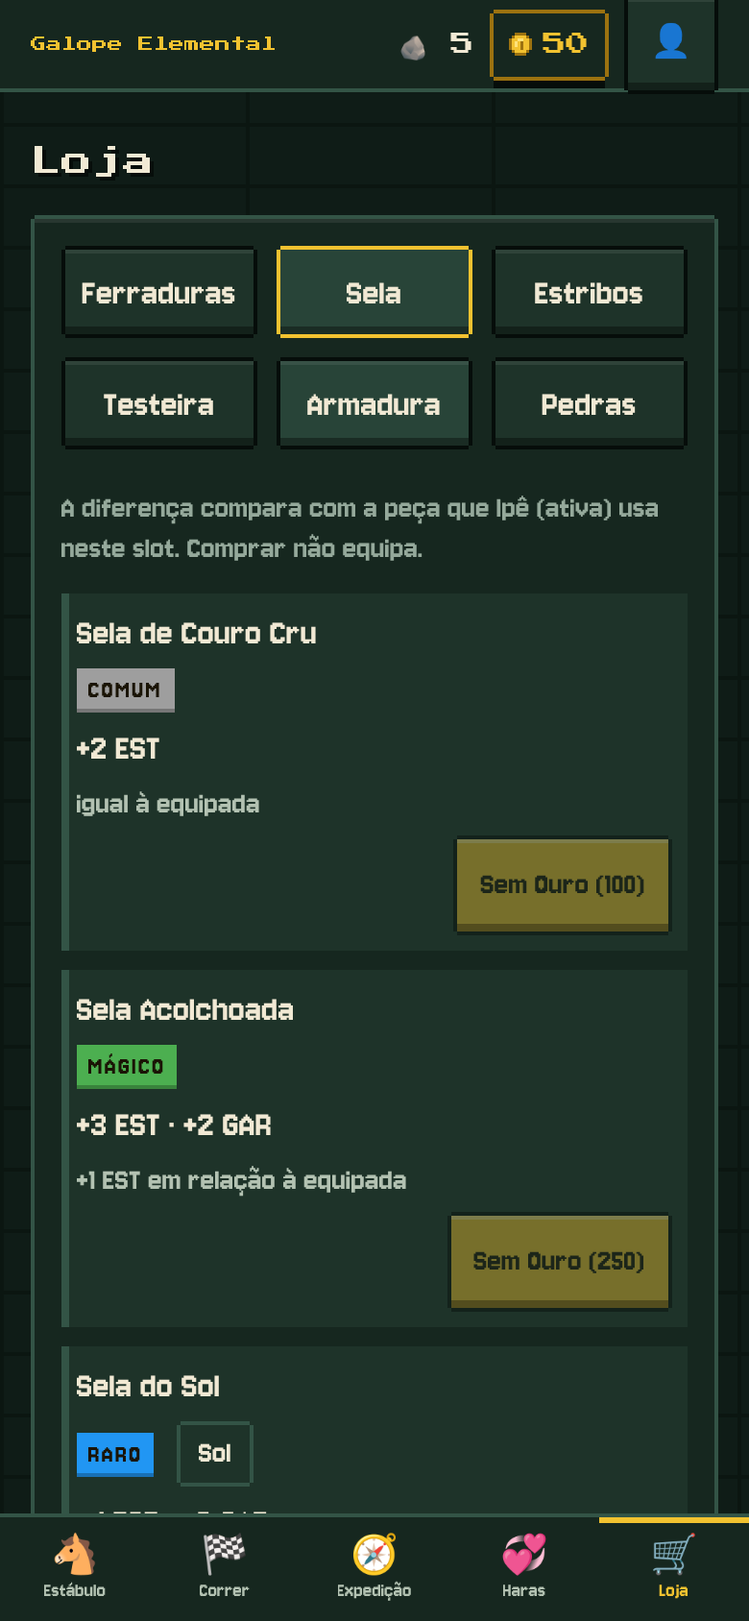
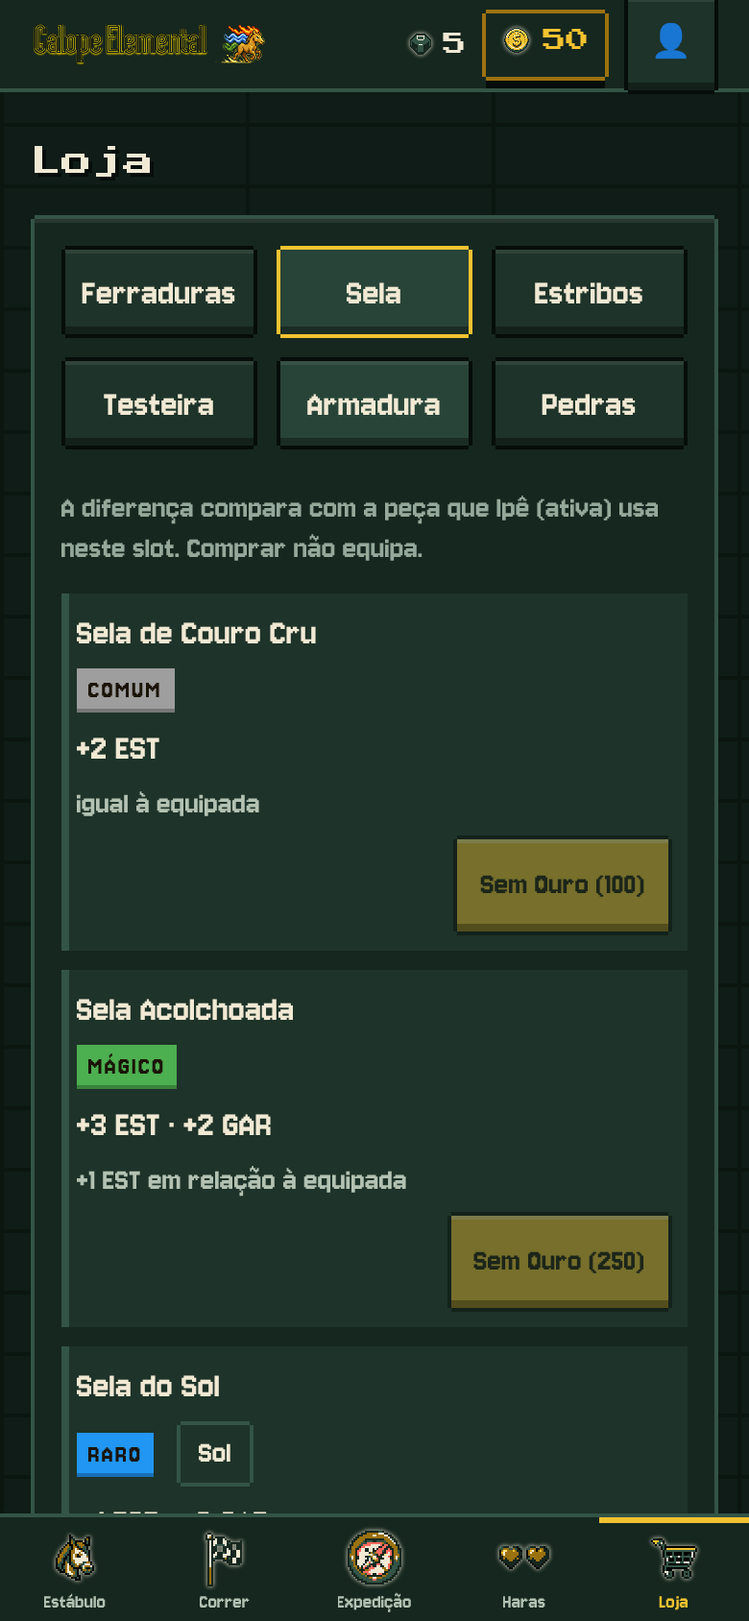
Documenta os visuais (moldes, ícones, marca), capturas e memória
Claude-Session: https://claude.ai/code/session_01MGExzKELAJ58uyj4wakVgJ

diff --git a/docs/memoria/assets.md b/docs/memoria/assets.md
@@ -6,38 +6,38 @@ jogador consome (arte, som, texto, página da loja); ferramentas de código não
 
 | Data | Arquivo(s) | Ferramenta | Prompt / parâmetros | Custo | Em uso no jogo? |
 |---|---|---|---|---|---|
-| 2026-11-05 | `prototype/assets/pixellab/{brasa,mare,ipe}.png` | PixelLab API v2 `create-image-pixflux` | Prompts e seeds (101/202/303) em `prototype/tools/pixellab-generate.mjs`; 64×64, vista lateral, contorno preto, sem fundo | 3 gerações da cota do plano (US$ 0 cobrado) | Não — só em `prototype/comparativo.html` |
+| 2026-11-05 | `prototype/assets/pixellab/{brasa,mare,ipe}.png` | PixelLab API v2 `create-image-pixflux` | Prompts e seeds (101/202/303) em `prototype/tools/pixellab-generate.mjs` (script removido em 2026-11-08, substituído por `pixellab-moldes.mjs`); 64×64, vista lateral, contorno preto, sem fundo | 3 gerações da cota do plano (US$ 0 cobrado) | Não — só em `prototype/comparativo.html` |
 | 2026-11-05 | `prototype/assets/pixellab/*-gallop-00..08.png` | PixelLab API v2 `animate-with-text-v3` | Ação: "galloping at full racing speed, legs extending and gathering, mane and tail flowing back"; 8 quadros pedidos (9 recebidos); mesmas seeds | 3 gerações da cota (~US$ 0,03 cada se pago) | Não — só em `prototype/comparativo.html` |
-| 2026-11-08 | `prototype/assets/marca/logo.png` (640×125, fundo transparente por chave de cor; original 1024×1024) | Canva `create-design` (design DAHaWgeoGqw) | Logotipo pixel art "Galope Elemental" com cavalo de crina de fogo, água e folhas; fundo #0b1910 removido e redimensionado | Plano Canva pago (sem custo avulso) | Não (até a Task 4) |
-| 2026-11-08 | `prototype/assets/marca/capa.png` e `docs/capa.png` (1024×500, faixa central do 1280×720) | Canva `create-design` "YouTube Thumbnail" (design DAHaWnkxNO4) | Capa noturna com 3 cavalos de Fogo, Água e Grama em pista; título "Galope Elemental" (corrigido à mão no editor: a IA escreveu "Calope") e "Corra, cruze e aposte". Rascunho descartado: DAHaWr7G4io (1024×256, título cortado) | Plano Canva pago (sem custo avulso) | Não — página da loja e README |
-| 2026-11-08 | `prototype/assets/pixellab/molde-chamas-retrato.png` | PixelLab API v2 `create-image-pixflux` | retrato 64×64: cavalo parado sem jóquei nem sela, crina "mane and tail shaped like flickering flames", cores de papel pedidas por texto (pelo #ff0000, crina #00ff00 …; sem paleta forçada); papéis por família de cor + Otsu do estilo; seed 1101 (imagem crua de rodada anterior, reaproveitada) | 1 geração da cota | Não (até a Task 3) |
-| 2026-11-08 | `prototype/assets/pixellab/molde-chamas-parado.png` | PixelLab API v2 `create-image-pixflux` | parado 64×64: cavalo parado com jóquei (seda e capacete #ffff00, pele #ffc0cb, sela e manta #808080), crina "mane and tail shaped like flickering flames", cores de papel pedidas por texto (pelo #ff0000, crina #00ff00 …; sem paleta forçada); papéis por família de cor + Otsu do estilo; seed 1101 (imagem crua de rodada anterior, reaproveitada) | 1 geração da cota | Não (até a Task 3) |
-| 2026-11-08 | `prototype/assets/pixellab/molde-chamas-galope-0..8.png` e `prototype/assets/pixellab/molde-chamas.json` | PixelLab API v2 `create-image-pixflux` + `animate-with-text-v3` | montado (meio da passada, com jóquei, crina "mane and tail shaped like flickering flames"; seed 1111 (imagem crua de rodada anterior, reaproveitada) (repetição; rejeitada: 1101)) animado com "galloping at full racing speed in a seamless loop, legs extending and gathering, mane and tail flowing back", frame_count 8 (9 quadros recebidos), drift_threshold 0; galope seed 1101 (imagem crua de rodada anterior, reaproveitada) | 2 gerações da cota | Não (até a Task 3) |
-| 2026-11-08 | `prototype/assets/pixellab/molde-ondas-retrato.png` | PixelLab API v2 `create-image-pixflux` | retrato 64×64: cavalo parado sem jóquei nem sela, crina "mane and tail shaped like flowing water waves", cores de papel pedidas por texto (pelo #ff0000, crina #00ff00 …; sem paleta forçada); papéis por família de cor + Otsu do estilo; seed 1201 (imagem crua de rodada anterior, reaproveitada) | 1 geração da cota | Não (até a Task 3) |
-| 2026-11-08 | `prototype/assets/pixellab/molde-ondas-parado.png` | PixelLab API v2 `create-image-pixflux` | parado 64×64: cavalo parado com jóquei (seda e capacete #ffff00, pele #ffc0cb, sela e manta #808080), crina "mane and tail shaped like flowing water waves", cores de papel pedidas por texto (pelo #ff0000, crina #00ff00 …; sem paleta forçada); papéis por família de cor + Otsu do estilo; seed 1201 (imagem crua de rodada anterior, reaproveitada) | 1 geração da cota | Não (até a Task 3) |
-| 2026-11-08 | `prototype/assets/pixellab/molde-ondas-galope-0..8.png` e `prototype/assets/pixellab/molde-ondas.json` | PixelLab API v2 `create-image-pixflux` + `animate-with-text-v3` | montado (meio da passada, com jóquei, crina "mane and tail shaped like flowing water waves"; seed 1221 (imagem crua de rodada anterior, reaproveitada) (repetição; rejeitadas: 1201, 1211)) animado com "galloping at full racing speed in a seamless loop, legs extending and gathering, mane and tail flowing back", frame_count 8 (9 quadros recebidos), drift_threshold 0; galope seed 1201 (imagem crua de rodada anterior, reaproveitada) | 3 gerações da cota | Não (até a Task 3) |
-| 2026-11-08 | `prototype/assets/pixellab/molde-folhas-retrato.png` | PixelLab API v2 `create-image-pixflux` | retrato 64×64: cavalo parado sem jóquei nem sela, crina "mane and tail made of leaves", cores de papel pedidas por texto (pelo #ff0000, crina #00ff00 …; sem paleta forçada); papéis por família de cor + Otsu do estilo; seed 1301 (imagem crua de rodada anterior, reaproveitada) | 1 geração da cota | Não (até a Task 3) |
-| 2026-11-08 | `prototype/assets/pixellab/molde-folhas-parado.png` | PixelLab API v2 `create-image-pixflux` | parado 64×64: cavalo parado com jóquei (seda e capacete #ffff00, pele #ffc0cb, sela e manta #808080), crina "mane and tail made of leaves", cores de papel pedidas por texto (pelo #ff0000, crina #00ff00 …; sem paleta forçada); papéis por família de cor + Otsu do estilo; seed 1301 (imagem crua de rodada anterior, reaproveitada) | 1 geração da cota | Não (até a Task 3) |
-| 2026-11-08 | `prototype/assets/pixellab/molde-folhas-galope-0..8.png` e `prototype/assets/pixellab/molde-folhas.json` | PixelLab API v2 `create-image-pixflux` + `animate-with-text-v3` | montado (meio da passada, com jóquei, crina "mane and tail made of leaves"; seed 1311 (imagem crua de rodada anterior, reaproveitada) (repetição; rejeitada: 1301)) animado com "galloping at full racing speed in a seamless loop, legs extending and gathering, mane and tail flowing back", frame_count 8 (9 quadros recebidos), drift_threshold 0; galope seed 1301 (imagem crua de rodada anterior, reaproveitada) | 3 gerações da cota | Não (até a Task 3) |
-| 2026-11-08 | `prototype/assets/pixellab/molde-lisa-retrato.png` | PixelLab API v2 `create-image-pixflux` | retrato 64×64: cavalo parado sem jóquei nem sela, crina "long straight flowing mane and tail", cores de papel pedidas por texto (pelo #ff0000, crina #00ff00 …; sem paleta forçada); papéis por família de cor + Otsu do estilo; seed 1411 (imagem crua de rodada anterior, reaproveitada) (repetição; rejeitada: 1401) | 1 geração da cota | Não (até a Task 3) |
-| 2026-11-08 | `prototype/assets/pixellab/molde-lisa-parado.png` | PixelLab API v2 `create-image-pixflux` | parado 64×64: cavalo parado com jóquei (seda e capacete #ffff00, pele #ffc0cb, sela e manta #808080), crina "long straight flowing mane and tail", cores de papel pedidas por texto (pelo #ff0000, crina #00ff00 …; sem paleta forçada); papéis por família de cor + Otsu do estilo; seed 1421 (imagem crua de rodada anterior, reaproveitada) (repetição; rejeitadas: 1401, 1411) | 1 geração da cota | Não (até a Task 3) |
-| 2026-11-08 | `prototype/assets/pixellab/molde-lisa-galope-0..8.png` e `prototype/assets/pixellab/molde-lisa.json` | PixelLab API v2 `create-image-pixflux` + `animate-with-text-v3` | montado (meio da passada, com jóquei, crina "long straight flowing mane and tail", reforço "bright green (#00ff00) long straight mane and tail clearly visible, jockey in yellow silks and yellow helmet"; seed 1471 (imagem crua de rodada anterior, reaproveitada) (repetição; rejeitadas: 1451, 1461)) animado com "galloping at full racing speed in a seamless loop, legs extending and gathering, mane and tail flowing back", frame_count 8 (9 quadros recebidos), drift_threshold 0; galope seed 1401 (imagem crua de rodada anterior, reaproveitada) | 4 gerações da cota | Não (até a Task 3) |
-| 2026-11-08 | `prototype/assets/icons/aba-estabulo.png` | PixelLab API v2 `create-image-pixflux` | ícone 32×32 "horse head icon, pixel art game ui icon, centered, simple, readable at small size", contorno preto, color_image = #000000 #f2c230 #ffe27a #9c7210 #f1e9d4 #16271f #335446; seed 2101 | 1 geração da cota | Não (até a Task 4) |
-| 2026-11-08 | `prototype/assets/icons/aba-correr.png` | PixelLab API v2 `create-image-pixflux` | ícone 32×32 "checkered racing flag icon, pixel art game ui icon, centered, simple, readable at small size", contorno preto, color_image = #000000 #f2c230 #ffe27a #9c7210 #f1e9d4 #16271f #335446; seed 2102 | 1 geração da cota | Não (até a Task 4) |
-| 2026-11-08 | `prototype/assets/icons/aba-expedicao.png` | PixelLab API v2 `create-image-pixflux` | ícone 32×32 "round navigation compass, top view, red and white needle pointing up, cardinal marks, pixel art game ui icon, centered, simple, readable at small size", contorno preto, color_image = #000000 #f2c230 #ffe27a #9c7210 #f1e9d4 #16271f #335446 #ff6b5e; seed 2123 | 1 geração da cota | Não (até a Task 4) |
-| 2026-11-08 | `prototype/assets/icons/aba-haras.png` | PixelLab API v2 `create-image-pixflux` | ícone 32×32 "two hearts icon, pixel art game ui icon, centered, simple, readable at small size", contorno preto, color_image = #000000 #f2c230 #ffe27a #9c7210 #f1e9d4 #16271f #335446; seed 2104 | 1 geração da cota | Não (até a Task 4) |
-| 2026-11-08 | `prototype/assets/icons/aba-loja.png` | PixelLab API v2 `create-image-pixflux` | ícone 32×32 "shopping cart icon, pixel art game ui icon, centered, simple, readable at small size", contorno preto, color_image = #000000 #f2c230 #ffe27a #9c7210 #f1e9d4 #16271f #335446; seed 2105 | 1 geração da cota | Não (até a Task 4) |
-| 2026-11-08 | `prototype/assets/icons/slot-ferraduras.png` | PixelLab API v2 `create-image-pixflux` | ícone 32×32 "horseshoe icon, pixel art game ui icon, centered, simple, readable at small size", contorno preto, color_image = #000000 #f2c230 #ffe27a #9c7210 #f1e9d4 #16271f #335446; seed 2106 | 1 geração da cota | Não (até a Task 4) |
-| 2026-11-08 | `prototype/assets/icons/slot-sela.png` | PixelLab API v2 `create-image-pixflux` | ícone 32×32 "horse saddle icon, pixel art game ui icon, centered, simple, readable at small size", contorno preto, color_image = #000000 #f2c230 #ffe27a #9c7210 #f1e9d4 #16271f #335446; seed 2107 | 1 geração da cota | Não (até a Task 4) |
-| 2026-11-08 | `prototype/assets/icons/slot-estribos.png` | PixelLab API v2 `create-image-pixflux` | ícone 32×32 "single stirrup iron: D-shaped metal loop with a flat footplate at the bottom, hanging from a short leather strap, pixel art game ui icon, centered, simple, readable at small size", contorno preto, color_image = #000000 #f2c230 #ffe27a #9c7210 #f1e9d4 #16271f #335446; seed 2128 | 1 geração da cota | Não (até a Task 4) |
-| 2026-11-08 | `prototype/assets/icons/slot-testeira.png` | PixelLab API v2 `create-image-pixflux` | ícone 32×32 "horse head armor chamfron icon, pixel art game ui icon, centered, simple, readable at small size", contorno preto, color_image = #000000 #f2c230 #ffe27a #9c7210 #f1e9d4 #16271f #335446; seed 2109 | 1 geração da cota | Não (até a Task 4) |
-| 2026-11-08 | `prototype/assets/icons/slot-armadura.png` | PixelLab API v2 `create-image-pixflux` | ícone 32×32 "horse barding armor icon, pixel art game ui icon, centered, simple, readable at small size", contorno preto, color_image = #000000 #f2c230 #ffe27a #9c7210 #f1e9d4 #16271f #335446; seed 2110 | 1 geração da cota | Não (até a Task 4) |
-| 2026-11-08 | `prototype/assets/icons/moeda-ouro.png` | PixelLab API v2 `create-image-pixflux` | ícone 32×32 "gold coin icon, pixel art game ui icon, centered, simple, readable at small size", contorno preto, color_image = #000000 #f2c230 #ffe27a #9c7210 #f1e9d4 #16271f #335446; seed 2111 | 1 geração da cota | Não (até a Task 4) |
-| 2026-11-08 | `prototype/assets/icons/pedra-negra.png` | PixelLab API v2 `create-image-pixflux` | ícone 32×32 "black polished stone gem icon, pixel art game ui icon, centered, simple, readable at small size", contorno preto, color_image = #000000 #f2c230 #ffe27a #9c7210 #f1e9d4 #16271f #335446; seed 2112 | 1 geração da cota | Não (até a Task 4) |
-| 2026-11-08 | `prototype/assets/icons/el-fogo.png` | PixelLab API v2 `create-image-pixflux` | ícone 32×32 "flame icon (#ff8a4c), pixel art game ui icon, centered, simple, readable at small size", contorno preto, color_image = #000000 #f2c230 #ffe27a #9c7210 #f1e9d4 #16271f #335446 #ff8a4c; seed 2113 | 1 geração da cota | Não (até a Task 4) |
-| 2026-11-08 | `prototype/assets/icons/el-agua.png` | PixelLab API v2 `create-image-pixflux` | ícone 32×32 "water drop icon (#62b8ff), pixel art game ui icon, centered, simple, readable at small size", contorno preto, color_image = #000000 #f2c230 #ffe27a #9c7210 #f1e9d4 #16271f #335446 #62b8ff; seed 2114 | 1 geração da cota | Não (até a Task 4) |
-| 2026-11-08 | `prototype/assets/icons/el-grama.png` | PixelLab API v2 `create-image-pixflux` | ícone 32×32 "green leaf icon (#7be07a), pixel art game ui icon, centered, simple, readable at small size", contorno preto, color_image = #000000 #f2c230 #ffe27a #9c7210 #f1e9d4 #16271f #335446 #7be07a; seed 2115 | 1 geração da cota | Não (até a Task 4) |
-| 2026-11-08 | `prototype/assets/icons/el-neutro.png` | PixelLab API v2 `create-image-pixflux` | ícone 32×32 "grey circle rune icon (#cfc8b4), pixel art game ui icon, centered, simple, readable at small size", contorno preto, color_image = #000000 #f2c230 #ffe27a #9c7210 #f1e9d4 #16271f #335446 #cfc8b4; seed 2116 | 1 geração da cota | Não (até a Task 4) |
+| 2026-11-08 | `prototype/assets/marca/logo.png` (640×125, fundo transparente por chave de cor; original 1024×1024) | Canva `create-design` (design DAHaWgeoGqw) | Logotipo pixel art "Galope Elemental" com cavalo de crina de fogo, água e folhas; fundo #0b1910 removido e redimensionado | Plano Canva pago (sem custo avulso) | Sim |
+| 2026-11-08 | `prototype/assets/marca/capa.png` e `docs/capa.png` (1024×500, faixa central do 1280×720) | Canva `create-design` "YouTube Thumbnail" (design DAHaWnkxNO4) | Capa noturna com 3 cavalos de Fogo, Água e Grama em pista; título "Galope Elemental" (corrigido à mão no editor: a IA escreveu "Calope") e "Corra, cruze e aposte". Rascunho descartado: DAHaWr7G4io (1024×256, título cortado) | Plano Canva pago (sem custo avulso) | Não — README e página da loja |
+| 2026-11-08 | `prototype/assets/pixellab/molde-chamas-retrato.png` | PixelLab API v2 `create-image-pixflux` | retrato 64×64: cavalo parado sem jóquei nem sela, crina "mane and tail shaped like flickering flames", cores de papel pedidas por texto (pelo #ff0000, crina #00ff00 …; sem paleta forçada); papéis por família de cor + Otsu do estilo; seed 1101 (imagem crua de rodada anterior, reaproveitada) | 1 geração da cota | Sim |
+| 2026-11-08 | `prototype/assets/pixellab/molde-chamas-parado.png` | PixelLab API v2 `create-image-pixflux` | parado 64×64: cavalo parado com jóquei (seda e capacete #ffff00, pele #ffc0cb, sela e manta #808080), crina "mane and tail shaped like flickering flames", cores de papel pedidas por texto (pelo #ff0000, crina #00ff00 …; sem paleta forçada); papéis por família de cor + Otsu do estilo; seed 1101 (imagem crua de rodada anterior, reaproveitada) | 1 geração da cota | Sim |
+| 2026-11-08 | `prototype/assets/pixellab/molde-chamas-galope-0..8.png` e `prototype/assets/pixellab/molde-chamas.json` | PixelLab API v2 `create-image-pixflux` + `animate-with-text-v3` | montado (meio da passada, com jóquei, crina "mane and tail shaped like flickering flames"; seed 1111 (imagem crua de rodada anterior, reaproveitada) (repetição; rejeitada: 1101)) animado com "galloping at full racing speed in a seamless loop, legs extending and gathering, mane and tail flowing back", frame_count 8 (9 quadros recebidos), drift_threshold 0; galope seed 1101 (imagem crua de rodada anterior, reaproveitada) | 2 gerações da cota | Sim |
+| 2026-11-08 | `prototype/assets/pixellab/molde-ondas-retrato.png` | PixelLab API v2 `create-image-pixflux` | retrato 64×64: cavalo parado sem jóquei nem sela, crina "mane and tail shaped like flowing water waves", cores de papel pedidas por texto (pelo #ff0000, crina #00ff00 …; sem paleta forçada); papéis por família de cor + Otsu do estilo; seed 1201 (imagem crua de rodada anterior, reaproveitada) | 1 geração da cota | Sim |
+| 2026-11-08 | `prototype/assets/pixellab/molde-ondas-parado.png` | PixelLab API v2 `create-image-pixflux` | parado 64×64: cavalo parado com jóquei (seda e capacete #ffff00, pele #ffc0cb, sela e manta #808080), crina "mane and tail shaped like flowing water waves", cores de papel pedidas por texto (pelo #ff0000, crina #00ff00 …; sem paleta forçada); papéis por família de cor + Otsu do estilo; seed 1201 (imagem crua de rodada anterior, reaproveitada) | 1 geração da cota | Sim |
+| 2026-11-08 | `prototype/assets/pixellab/molde-ondas-galope-0..8.png` e `prototype/assets/pixellab/molde-ondas.json` | PixelLab API v2 `create-image-pixflux` + `animate-with-text-v3` | montado (meio da passada, com jóquei, crina "mane and tail shaped like flowing water waves"; seed 1221 (imagem crua de rodada anterior, reaproveitada) (repetição; rejeitadas: 1201, 1211)) animado com "galloping at full racing speed in a seamless loop, legs extending and gathering, mane and tail flowing back", frame_count 8 (9 quadros recebidos), drift_threshold 0; galope seed 1201 (imagem crua de rodada anterior, reaproveitada) | 3 gerações da cota | Sim |
+| 2026-11-08 | `prototype/assets/pixellab/molde-folhas-retrato.png` | PixelLab API v2 `create-image-pixflux` | retrato 64×64: cavalo parado sem jóquei nem sela, crina "mane and tail made of leaves", cores de papel pedidas por texto (pelo #ff0000, crina #00ff00 …; sem paleta forçada); papéis por família de cor + Otsu do estilo; seed 1301 (imagem crua de rodada anterior, reaproveitada) | 1 geração da cota | Sim |
+| 2026-11-08 | `prototype/assets/pixellab/molde-folhas-parado.png` | PixelLab API v2 `create-image-pixflux` | parado 64×64: cavalo parado com jóquei (seda e capacete #ffff00, pele #ffc0cb, sela e manta #808080), crina "mane and tail made of leaves", cores de papel pedidas por texto (pelo #ff0000, crina #00ff00 …; sem paleta forçada); papéis por família de cor + Otsu do estilo; seed 1301 (imagem crua de rodada anterior, reaproveitada) | 1 geração da cota | Sim |
+| 2026-11-08 | `prototype/assets/pixellab/molde-folhas-galope-0..8.png` e `prototype/assets/pixellab/molde-folhas.json` | PixelLab API v2 `create-image-pixflux` + `animate-with-text-v3` | montado (meio da passada, com jóquei, crina "mane and tail made of leaves"; seed 1311 (imagem crua de rodada anterior, reaproveitada) (repetição; rejeitada: 1301)) animado com "galloping at full racing speed in a seamless loop, legs extending and gathering, mane and tail flowing back", frame_count 8 (9 quadros recebidos), drift_threshold 0; galope seed 1301 (imagem crua de rodada anterior, reaproveitada) | 3 gerações da cota | Sim |
+| 2026-11-08 | `prototype/assets/pixellab/molde-lisa-retrato.png` | PixelLab API v2 `create-image-pixflux` | retrato 64×64: cavalo parado sem jóquei nem sela, crina "long straight flowing mane and tail", cores de papel pedidas por texto (pelo #ff0000, crina #00ff00 …; sem paleta forçada); papéis por família de cor + Otsu do estilo; seed 1411 (imagem crua de rodada anterior, reaproveitada) (repetição; rejeitada: 1401) | 1 geração da cota | Sim |
+| 2026-11-08 | `prototype/assets/pixellab/molde-lisa-parado.png` | PixelLab API v2 `create-image-pixflux` | parado 64×64: cavalo parado com jóquei (seda e capacete #ffff00, pele #ffc0cb, sela e manta #808080), crina "long straight flowing mane and tail", cores de papel pedidas por texto (pelo #ff0000, crina #00ff00 …; sem paleta forçada); papéis por família de cor + Otsu do estilo; seed 1421 (imagem crua de rodada anterior, reaproveitada) (repetição; rejeitadas: 1401, 1411) | 1 geração da cota | Sim |
+| 2026-11-08 | `prototype/assets/pixellab/molde-lisa-galope-0..8.png` e `prototype/assets/pixellab/molde-lisa.json` | PixelLab API v2 `create-image-pixflux` + `animate-with-text-v3` | montado (meio da passada, com jóquei, crina "long straight flowing mane and tail", reforço "bright green (#00ff00) long straight mane and tail clearly visible, jockey in yellow silks and yellow helmet"; seed 1471 (imagem crua de rodada anterior, reaproveitada) (repetição; rejeitadas: 1451, 1461)) animado com "galloping at full racing speed in a seamless loop, legs extending and gathering, mane and tail flowing back", frame_count 8 (9 quadros recebidos), drift_threshold 0; galope seed 1401 (imagem crua de rodada anterior, reaproveitada) | 4 gerações da cota | Sim |
+| 2026-11-08 | `prototype/assets/icons/aba-estabulo.png` | PixelLab API v2 `create-image-pixflux` | ícone 32×32 "horse head icon, pixel art game ui icon, centered, simple, readable at small size", contorno preto, color_image = #000000 #f2c230 #ffe27a #9c7210 #f1e9d4 #16271f #335446; seed 2101 | 1 geração da cota | Sim |
+| 2026-11-08 | `prototype/assets/icons/aba-correr.png` | PixelLab API v2 `create-image-pixflux` | ícone 32×32 "checkered racing flag icon, pixel art game ui icon, centered, simple, readable at small size", contorno preto, color_image = #000000 #f2c230 #ffe27a #9c7210 #f1e9d4 #16271f #335446; seed 2102 | 1 geração da cota | Sim |
+| 2026-11-08 | `prototype/assets/icons/aba-expedicao.png` | PixelLab API v2 `create-image-pixflux` | ícone 32×32 "round navigation compass, top view, red and white needle pointing up, cardinal marks, pixel art game ui icon, centered, simple, readable at small size", contorno preto, color_image = #000000 #f2c230 #ffe27a #9c7210 #f1e9d4 #16271f #335446 #ff6b5e; seed 2123 | 1 geração da cota | Sim |
+| 2026-11-08 | `prototype/assets/icons/aba-haras.png` | PixelLab API v2 `create-image-pixflux` | ícone 32×32 "two hearts icon, pixel art game ui icon, centered, simple, readable at small size", contorno preto, color_image = #000000 #f2c230 #ffe27a #9c7210 #f1e9d4 #16271f #335446; seed 2104 | 1 geração da cota | Sim |
+| 2026-11-08 | `prototype/assets/icons/aba-loja.png` | PixelLab API v2 `create-image-pixflux` | ícone 32×32 "shopping cart icon, pixel art game ui icon, centered, simple, readable at small size", contorno preto, color_image = #000000 #f2c230 #ffe27a #9c7210 #f1e9d4 #16271f #335446; seed 2105 | 1 geração da cota | Sim |
+| 2026-11-08 | `prototype/assets/icons/slot-ferraduras.png` | PixelLab API v2 `create-image-pixflux` | ícone 32×32 "horseshoe icon, pixel art game ui icon, centered, simple, readable at small size", contorno preto, color_image = #000000 #f2c230 #ffe27a #9c7210 #f1e9d4 #16271f #335446; seed 2106 | 1 geração da cota | Sim |
+| 2026-11-08 | `prototype/assets/icons/slot-sela.png` | PixelLab API v2 `create-image-pixflux` | ícone 32×32 "horse saddle icon, pixel art game ui icon, centered, simple, readable at small size", contorno preto, color_image = #000000 #f2c230 #ffe27a #9c7210 #f1e9d4 #16271f #335446; seed 2107 | 1 geração da cota | Sim |
+| 2026-11-08 | `prototype/assets/icons/slot-estribos.png` | PixelLab API v2 `create-image-pixflux` | ícone 32×32 "single stirrup iron: D-shaped metal loop with a flat footplate at the bottom, hanging from a short leather strap, pixel art game ui icon, centered, simple, readable at small size", contorno preto, color_image = #000000 #f2c230 #ffe27a #9c7210 #f1e9d4 #16271f #335446; seed 2128 | 1 geração da cota | Sim |
+| 2026-11-08 | `prototype/assets/icons/slot-testeira.png` | PixelLab API v2 `create-image-pixflux` | ícone 32×32 "horse head armor chamfron icon, pixel art game ui icon, centered, simple, readable at small size", contorno preto, color_image = #000000 #f2c230 #ffe27a #9c7210 #f1e9d4 #16271f #335446; seed 2109 | 1 geração da cota | Sim |
+| 2026-11-08 | `prototype/assets/icons/slot-armadura.png` | PixelLab API v2 `create-image-pixflux` | ícone 32×32 "horse barding armor icon, pixel art game ui icon, centered, simple, readable at small size", contorno preto, color_image = #000000 #f2c230 #ffe27a #9c7210 #f1e9d4 #16271f #335446; seed 2110 | 1 geração da cota | Sim |
+| 2026-11-08 | `prototype/assets/icons/moeda-ouro.png` | PixelLab API v2 `create-image-pixflux` | ícone 32×32 "gold coin icon, pixel art game ui icon, centered, simple, readable at small size", contorno preto, color_image = #000000 #f2c230 #ffe27a #9c7210 #f1e9d4 #16271f #335446; seed 2111 | 1 geração da cota | Sim |
+| 2026-11-08 | `prototype/assets/icons/pedra-negra.png` | PixelLab API v2 `create-image-pixflux` | ícone 32×32 "black polished stone gem icon, pixel art game ui icon, centered, simple, readable at small size", contorno preto, color_image = #000000 #f2c230 #ffe27a #9c7210 #f1e9d4 #16271f #335446; seed 2112 | 1 geração da cota | Sim |
+| 2026-11-08 | `prototype/assets/icons/el-fogo.png` | PixelLab API v2 `create-image-pixflux` | ícone 32×32 "flame icon (#ff8a4c), pixel art game ui icon, centered, simple, readable at small size", contorno preto, color_image = #000000 #f2c230 #ffe27a #9c7210 #f1e9d4 #16271f #335446 #ff8a4c; seed 2113 | 1 geração da cota | Sim |
+| 2026-11-08 | `prototype/assets/icons/el-agua.png` | PixelLab API v2 `create-image-pixflux` | ícone 32×32 "water drop icon (#62b8ff), pixel art game ui icon, centered, simple, readable at small size", contorno preto, color_image = #000000 #f2c230 #ffe27a #9c7210 #f1e9d4 #16271f #335446 #62b8ff; seed 2114 | 1 geração da cota | Sim |
+| 2026-11-08 | `prototype/assets/icons/el-grama.png` | PixelLab API v2 `create-image-pixflux` | ícone 32×32 "green leaf icon (#7be07a), pixel art game ui icon, centered, simple, readable at small size", contorno preto, color_image = #000000 #f2c230 #ffe27a #9c7210 #f1e9d4 #16271f #335446 #7be07a; seed 2115 | 1 geração da cota | Sim |
+| 2026-11-08 | `prototype/assets/icons/el-neutro.png` | PixelLab API v2 `create-image-pixflux` | ícone 32×32 "grey circle rune icon (#cfc8b4), pixel art game ui icon, centered, simple, readable at small size", contorno preto, color_image = #000000 #f2c230 #ffe27a #9c7210 #f1e9d4 #16271f #335446 #cfc8b4; seed 2116 | 1 geração da cota | Sim |
 | — | `prototype/src/sprites.js` | Código (feito à mão) | Sprites desenhados por código | — | Sim |
 
 As respostas cruas da API (sem as imagens) ficam em `prototype/assets/pixellab/*.json` (2026-11-05) e, desde

diff --git a/docs/memoria/ESTADO.md b/docs/memoria/ESTADO.md
@@ -4,6 +4,21 @@ _Atualizado em 2026-11-08._
 
 **Fase:** Protótipo.
 
+## Em andamento — frente de visuais (2026-11-08)
+Pronta na branch `claude/visuais`, **aguardando revisão final e merge na `main`**. Spec:
+`docs/superpowers/specs/2026-11-08-visuais-design.md` (§10 = ajustes); plano:
+`docs/superpowers/plans/2026-11-08-visuais.md`.
+- Entregue: moldes PixelLab (retrato, parado e galope de 9 quadros) para os 4 estilos de crina,
+  recoloridos no jogo; 16 ícones (abas, slots, moedas, elementos); logotipo e capa do Canva; script
+  `pixellab-moldes.mjs`; testes `moldes-test.mjs` (etapa 3b do `check.sh`); capturas oficiais novas.
+- Gasto: 55 de 60 gerações aprovadas (saldo 1994 → 1939), US$ 0.
+- Pendências estacionadas: bússola (`aba-expedicao`) com agulha pouco nítida (refazer custa 1 geração);
+  retrato do estilo ondas sai uma escala abaixo dos outros em telas de densidade 1; estados parados
+  (retrato, largada, pódio) sem animação de respiração ou piscar.
+- Branches remotas antigas para o Vinicius apagar no GitHub: `claude/equipamentos`,
+  `claude/cruzamento`, `claude/nucleo-corrida-v2`, `claude/analise-regras-arquivo-3j3zv1`,
+  `claude/kind-thompson-gsqj7r`, `claude/menu-abas`.
+
 ## Em andamento — virada de design (2026-11-05/06)
 O jogo foi redesenhado em 6 subprojetos, nesta ordem (cada um em branch própria, integrado na `main`
 pela conversa principal): **1. Núcleo da corrida v2** → 2. Cavalos v2 (sexo, 5 raridades,
@@ -73,8 +88,8 @@ cruzamento no nível máximo) → 3. Inventário e set de equipamentos (modelo B
 - **Simulação** (`prototype/src/sim.js`): determinística por seed; 28 metas de balanceamento
   v2 passando (`node prototype/tools/balance.js`).
 - **Teste de interface** com Playwright (`prototype/tools/ui-test.mjs`).
-- **Sprites PixelLab** dos 3 iniciais (base + galope de 9 quadros), comparados com os sprites por
-  código em `prototype/comparativo.html`. **Ainda não estão em uso no jogo.**
+- **Sprites PixelLab** dos 3 iniciais (base + galope de 9 quadros), só em `prototype/comparativo.html`;
+  no jogo os cavalos agora usam os moldes (ver "frente de visuais").
 - **Regras de trabalho**: `CLAUDE.md`, `scripts/check.sh`, `.claude/settings.json`, `.gitignore`
   e esta memória. **Integradas na `main`** em 2026-11-05; branches antigas já mergeadas podem ser
   apagadas no GitHub (`claude/analise-regras-arquivo-3j3zv1`, `claude/kind-thompson-gsqj7r`).
@@ -91,10 +106,9 @@ cruzamento no nível máximo) → 3. Inventário e set de equipamentos (modelo B
 1. Subprojeto 4 — expedições (mundos por bioma, estágios X-1…X-10, batalha por turnos com modo
    automático e manual, recompensas em Ouro, XP e moeda de pacotes; Lendário de equipamento) — nova
    branch dedicada; brainstorming já iniciado (decidido: auto/manual; corrida PVP continua automática).
-2. Visuais pagos (PixelLab para sprites de montarias/inimigos e fundos; Canva para ícones e arte de
-   loja) — só depois de fechar a lista de telas, biomas e inimigos; cada geração pede confirmação do
-   Vinicius e entra em `docs/memoria/assets.md`. Os sprites PixelLab dos 3 iniciais já existem
-   (`prototype/comparativo.html`) e ainda não estão no jogo.
+2. Revisão final e merge da frente de visuais (`claude/visuais`). Depois: visuais de fundos, biomas e
+   inimigos, só após fechar a lista de telas; cada geração pede confirmação do Vinicius e entra em
+   `docs/memoria/assets.md`.
 3. Vinicius joga o menu novo e os equipamentos (`prototype/dist/preview.html?dev=1`).
 4. Decidir a zebra (ruído ±3–5% por corrida) e o despertar Lendário→Mítico (depois das expedições).
 

diff --git a/docs/superpowers/specs/2026-11-08-visuais-design.md b/docs/superpowers/specs/2026-11-08-visuais-design.md
@@ -175,3 +175,29 @@ página da loja completa · trocar a pista por código.
 - **Canva sem fundo transparente** no plano: fundo na cor `--noite`.
 - **Custo por chamada maior que o estimado**: o script para no teto e eu mostro o parcial.
 - **Tamanho do build**: ~60 KB de moldes + ~20 KB de ícones + logotipo; aceitável para o protótipo.
+
+## 10. Histórico de ajustes (2026-11-08)
+
+**Decididos antes da execução (topo do plano):**
+1. Três imagens por estilo (`retrato`, `parado`, `montado`); o galope é animado a partir do `montado`.
+2. Paleta forçada (`color_image` + `reduce-colors`) em vez de "cor mais próxima" (revertido, ver abaixo).
+3. Escala inteira no jogo, em vez de `k × 0,5`.
+4. Ícones ficam em 32×32 no arquivo e aparecem menores no CSS.
+5. Teto de 60 gerações no lote (cota do plano; US$ 0 cobrado).
+
+**Mudanças durante a execução:**
+1. Paleta forçada descartada nos cavalos (o PixelLab pintava cada par num tom só): geração com cores naturais e classificação local por matiz/saturação, claro/sombra pelo limiar de Otsu.
+2. Um limiar de Otsu por geração (retrato, parado e um único para os 9 quadros do galope).
+3. Limpeza espacial do jóquei nos quadros montados (maior grupo e vizinhos em cadeia; sela pelo cinza logo abaixo).
+4. Par sem um dos tons (< 10 %): o par vira tom claro com sombreado procedural.
+5. Contorno procedural só no montado e no galope; retrato e parado mantêm a regra de silhueta.
+6. Prompt do jóquei com seda e capacete amarelos e sela cinza (o capacete vermelho virava pelagem).
+7. O script precisa de `NODE_USE_ENV_PROXY=1`; o PixelLab devolve 502 com frequência, sem cobrar.
+8. Gasto: 55 das 60 gerações aprovadas (saldo 1994 → 1939), US$ 0; repetidos: lisa, `slot-estribos`, `aba-expedicao`.
+9. `pixellab-moldes.mjs`: dry-run padrão, `--gerar`, `--teto`, `--only`, `--repetir`, `--reprocessar`; `pixellab-generate.mjs` removido.
+10. Âncoras no jogo por estado (chão = maior `footY`; horizontal = mediana do focinho), não por quadro.
+11. Escala única para todos os estilos: `max(1, round(k × 40 / Lref))`, limitada pela altura em quadro fixo.
+12. Cadência: um ciclo do galope do molde (9 quadros) dura o mesmo que um do sprite por código (6).
+13. Cache de canvases sem a escala na chave; `dist/moldes.js` para o `comparativo.html` via `file://`.
+14. Ícones: abas em 32 px (1:1), ícones de 16 px com `image-rendering: auto`, halo claro; sub-abas da Loja sem ícone.
+15. Marca: logotipo 640×125 sem fundo; capa 1024×500; título "Calope" corrigido no editor do Canva.

diff --git a/CLAUDE.md b/CLAUDE.md
@@ -35,10 +35,11 @@ Nada de polimento, servidor, contas ou loja ainda. Fases e checklist de lançame
 |---|---|---|
 | Gerar o jogo (`prototype/dist/`) | `node prototype/build.mjs` | 1 s |
 | Testes unitários da simulação | `node prototype/tools/sim-test.js` | 5 s |
+| Testes dos moldes (cavalos e ícones gerados) | `node prototype/tools/moldes-test.mjs` | <1 s |
 | Balanceamento rápido (falha se meta quebrar) | `node prototype/tools/balance.js --quick` | ~25 s |
 | Balanceamento completo / corrida de exemplo | `node prototype/tools/balance.js [--exemplo]` | ~1,5 min |
 | Teste de interface (Playwright) + capturas em `prototype/screens/` | `node prototype/tools/ui-test.mjs` | ~1,5 min |
-| **Verificação completa** (build + testes unitários + balanço + UI, sem tocar nas capturas) | `./scripts/check.sh` | ~2,5 min |
+| **Verificação completa** (build + testes unitários + moldes + balanço + UI, sem tocar nas capturas) | `./scripts/check.sh` | ~2,5 min |
 
 Abrir o jogo localmente: `prototype/dist/preview.html` no navegador.
 Capturas oficiais em `prototype/screens/` só são atualizadas quando a interface muda de propósito
@@ -63,8 +64,9 @@ Leia no início de cada sessão e atualize ao final:
 
 ## 7. Ferramentas
 Guia completo (subagentes, MCP, permissões, tokens): `docs/guia-ferramentas.md`.
-- **PixelLab** (sprites/animações): API v2 via `prototype/tools/pixellab-generate.mjs`.
-  **Gasta créditos — sempre pedir confirmação antes.**
+- **PixelLab** (moldes de cavalo e ícones): API v2 via `prototype/tools/pixellab-moldes.mjs` —
+  dry-run por padrão, `--gerar` para gastar, `--teto N` limita as gerações, `--reprocessar` refaz
+  sem rede. **Gasta créditos — sempre pedir confirmação antes.**
 - **Canva** (capa, ícone, imagens de loja) e **ElevenLabs** (sons/vozes) — quando conectados;
   também pedem confirmação antes de gastar créditos.
 - Todo asset gerado: salvar com nome descritivo e registrar em `docs/memoria/assets.md`.

diff --git a/docs/memoria/decisoes.md b/docs/memoria/decisoes.md
@@ -4,6 +4,13 @@ Formato: **data · decisão** — motivo. A mais nova fica no topo. Decisões de
 continuam no `docs/GDD.md`; aqui fica o registro de *quando* e *por quê*.
 
 ## 2026-11-08
+- **Cavalos com moldes do PixelLab recoloridos no jogo, no lugar dos desenhados por código** — qualidade de arte maior sem gerar um sprite por cavalo.
+- **Cores naturais + classificação local, sem paleta forçada** — com `color_image` o PixelLab pintava cada par num tom só e a validação rejeitava; o experimento de 4 gerações deu vitória à classificação por matiz/saturação com Otsu.
+- **Escala inteira única para todos os estilos** (`max(1, round(k × 40 / Lref))`) — pixels nítidos e cavalos do mesmo tamanho entre estilos.
+- **Âncoras por estado (chão = maior `footY`, horizontal = mediana do focinho)** — o rabo balança e quadro a quadro o cavalo tremia.
+- **Ícones em 32 px, abas a 1:1 e ícones menores com suavização, com halo claro** — o contorno escuro sumia no fundo escuro.
+- **Script `pixellab-moldes.mjs` com dry-run por padrão e `--teto`** — gasto de cota só com confirmação; `pixellab-generate.mjs` removido.
+- **Logotipo e capa feitos no Canva** (fundo do logo removido por chave de cor) — marca sem custo avulso; a capa vai no README e na futura página da loja.
 - **Menu de abas antes das expedições e dos visuais** (opção A do Vinicius) — a rolagem única do Estábulo não comportava as novas telas; a casca de navegação vem primeiro.
 - **5 abas (Estábulo, Correr, Expedição, Haras, Loja) + Perfil no cabeçalho** — Perfil guarda estatísticas e "Recomeçar", que não merecem uma aba.
 - **A casca fica dentro do `game.js`** — o protótipo é descartável; não vale separar arquivos antes de escolher a stack.

diff --git a/docs/guia-ferramentas.md b/docs/guia-ferramentas.md
@@ -8,13 +8,17 @@ toda sessão. Os comandos do Claude Code mudam com frequência: confira na docum
 | Ferramenta | Para quê | Como acessar | Observações |
 |---|---|---|---|
 | Claude (Max) | planejamento, código, revisão | CLI, app, web | subagentes para tarefas isoladas |
-| PixelLab | sprites, animações, tilesets | API v2 (`prototype/tools/pixellab-generate.mjs`, variável `PIXELLAB_API_KEY`) ou MCP | gasta créditos/cota |
+| PixelLab | sprites, animações, tilesets | API v2 (`prototype/tools/pixellab-moldes.mjs`) ou MCP | gasta créditos/cota |
 | ElevenLabs | vozes, efeitos, música | MCP | gasta créditos |
 | Canva Pro | capa, ícone, imagens de loja, banners, trailer simples | MCP (conector do claude.ai) | — |
 
 Nas sessões na nuvem (claude.ai/code), a PixelLab pode estar liberada pelo proxy do ambiente,
-com a credencial injetada automaticamente — aí o script funciona com qualquer valor em
-`PIXELLAB_API_KEY`. Localmente, use a chave real numa variável de ambiente.
+com a credencial injetada automaticamente. Localmente, use a chave real em `PIXELLAB_API_KEY`.
+O `pixellab-moldes.mjs` roda em dry-run por padrão (mostra o que geraria e o custo, sem gastar);
+`--gerar` gasta, `--teto N` limita o número de gerações, `--reprocessar` refaz os moldes a partir
+das respostas cruas guardadas em `raw/`, sem rede e sem custo. Precisa de `NODE_USE_ENV_PROXY=1`
+(o `fetch` do Node 22 não usa o proxy sozinho; sem isso a API responde 401). O PixelLab devolve
+502 com frequência, sem cobrar.
 
 ## Subagentes
 - **Agente** = a IA trabalhando sozinha numa tarefa. A conversa principal já é um agente.

diff --git a/docs/GDD.md b/docs/GDD.md
@@ -81,6 +81,8 @@ Iniciais (Brasa, Maré, Ipê) são Raros e têm uma skill exclusiva do elemento.
 
 **Fluxo de telas.** O jogo tem uma barra de 5 abas (Estábulo, Correr, Expedição, Haras, Loja), embaixo no celular e à esquerda no desktop (≥ 900 px), e um cabeçalho com o saldo (Ouro e Pedras) e o botão Perfil (estatísticas e "Recomeçar"). O Estábulo só lista as montarias; cada uma abre a tela da Montaria, com as sub-abas Status, Skills e Equipamento. Largada, corrida e resultado são telas cheias, sem barra. A corrida PVP continua automática; a aba Expedição é um espaço reservado até o subprojeto 4.
 
+**Arte do protótipo.** Os cavalos não são mais desenhados por código: cada estilo de crina (chamas, ondas, folhas, lisa) tem um molde gerado no PixelLab (retrato, parado com jóquei e galope de 9 quadros), em cores naturais, e o jogo o recolore na hora com a paleta do cavalo (pelagem, crina, detalhe, seda e pele). A escala é inteira, igual para todos os estilos, para os pixels ficarem nítidos. Os ícones (abas, slots de equipamento, moedas, elementos) também vêm do PixelLab; o logotipo e a capa vêm do Canva. Pista, clima e interface continuam por código. Detalhes e ajustes: `docs/superpowers/specs/2026-11-08-visuais-design.md`.
+
 ## 6. Estábulo e cruzamento
 
 Spec completa e algoritmo: `docs/superpowers/specs/2026-11-06-cruzamento-design.md` (o código é `prototype/src/breed.js`). Números reais: `docs/exemplos.md` §13.

diff --git a/README.md b/README.md
@@ -1,5 +1,7 @@
 # MMORPG Horse
 
+![Galope Elemental](docs/capa.png)
+
 Jogo em pixel art de corrida de cavalos **automática** com progressão RPG, elementos
 (🔥 Fogo / 💧 Água / 🌿 Grama) e PVP com apostas de moeda virtual. Alvo: web + Google Play.
 
